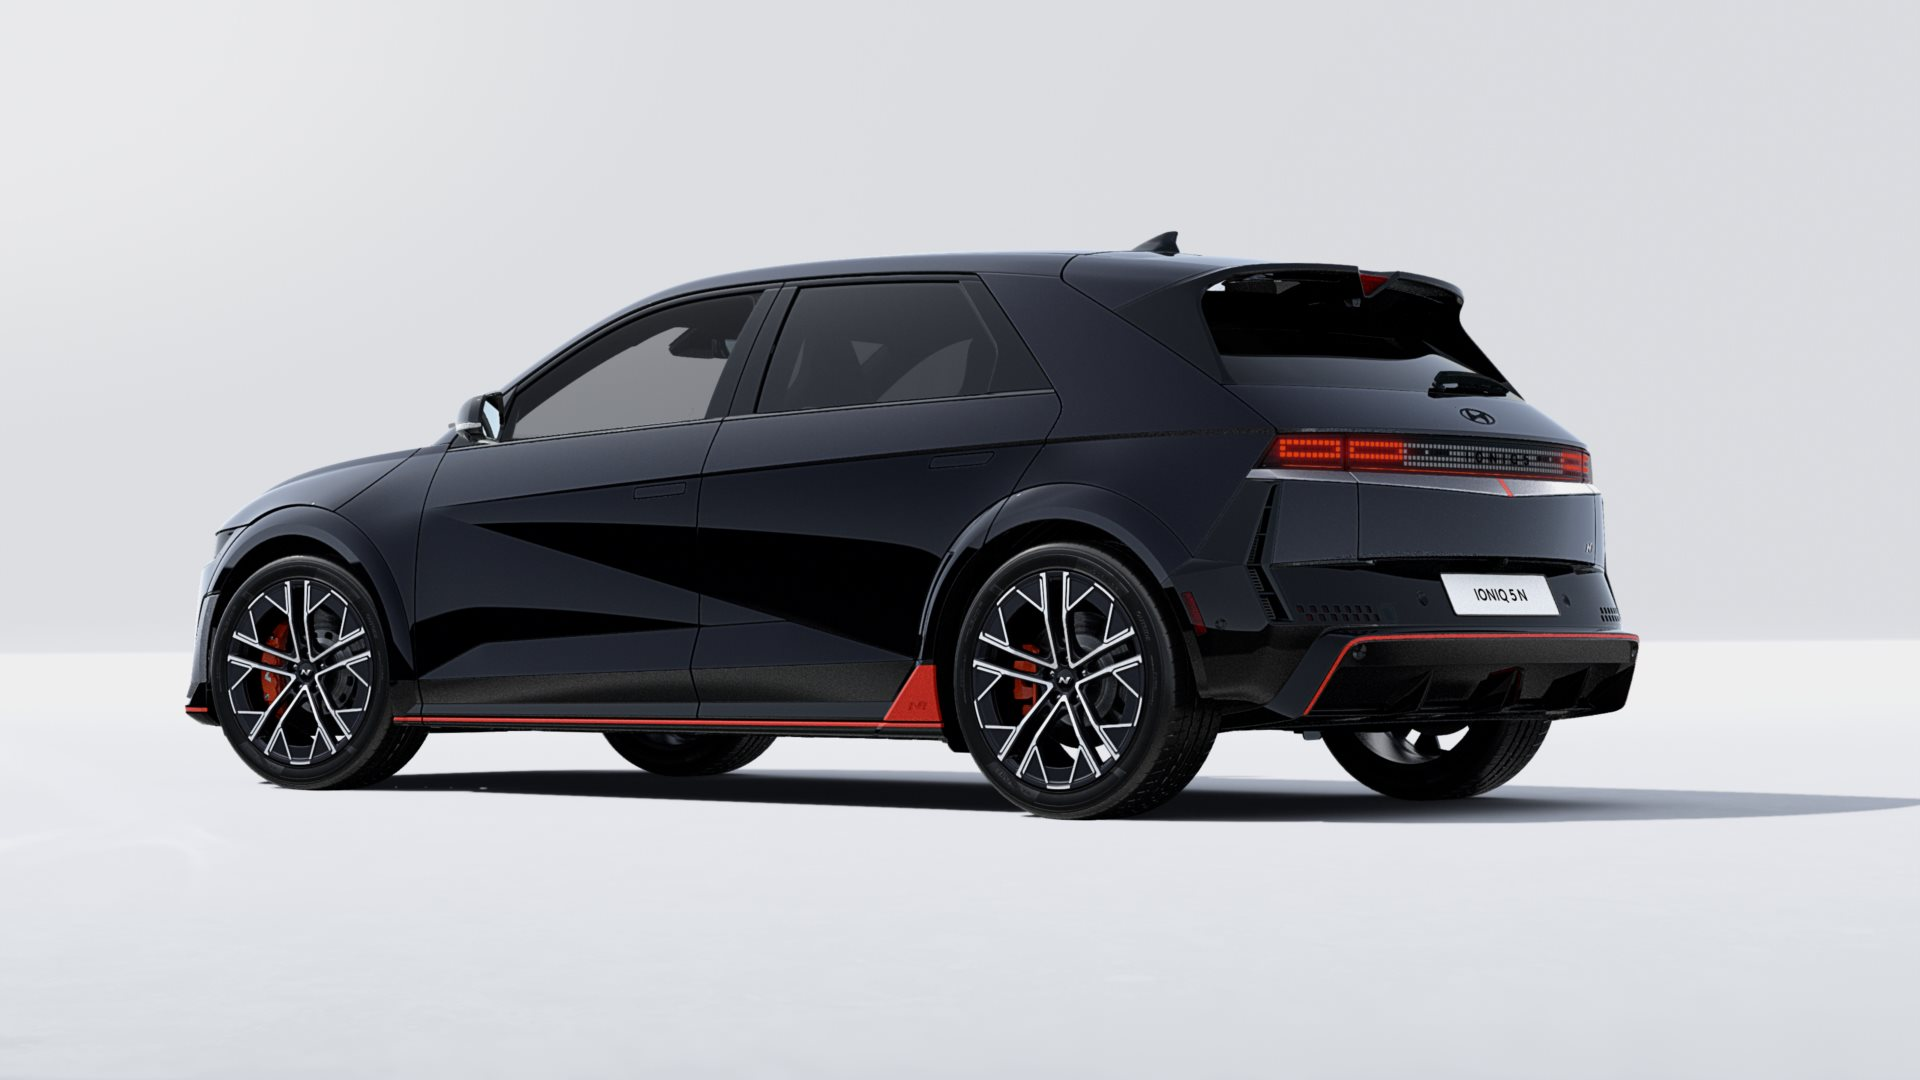
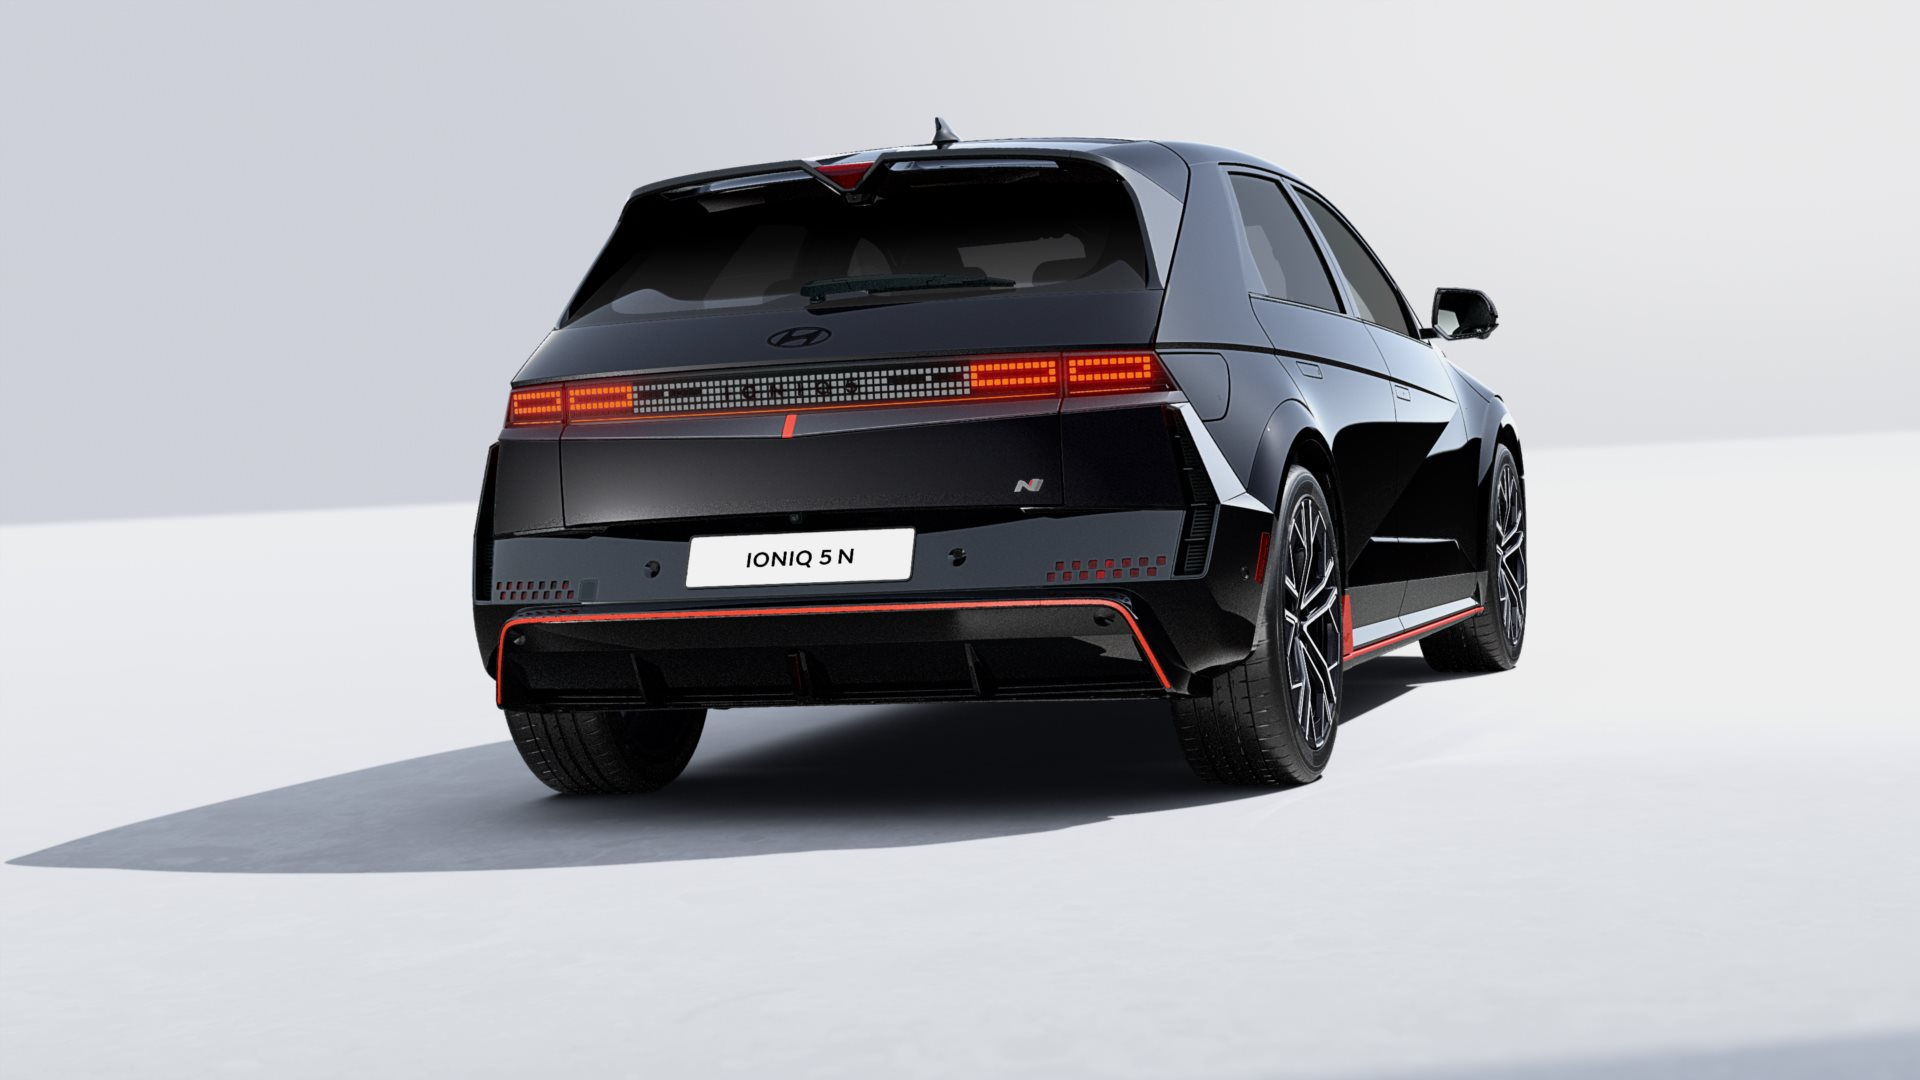
Label raised to 2.5%

diff --git a/index.html b/index.html
@@ -609,7 +609,7 @@ function positionOverlays(idx) {
   if (label) {
     label.style.left      = (ox + rw / 2) + 'px';
     label.style.transform = 'translateX(-50%)';
-    label.style.bottom    = (imgBottom + rh * 0.005) + 'px';
+    label.style.bottom    = (imgBottom + rh * 0.025) + 'px';
     label.style.top       = 'auto';
   }
   if (logo) {